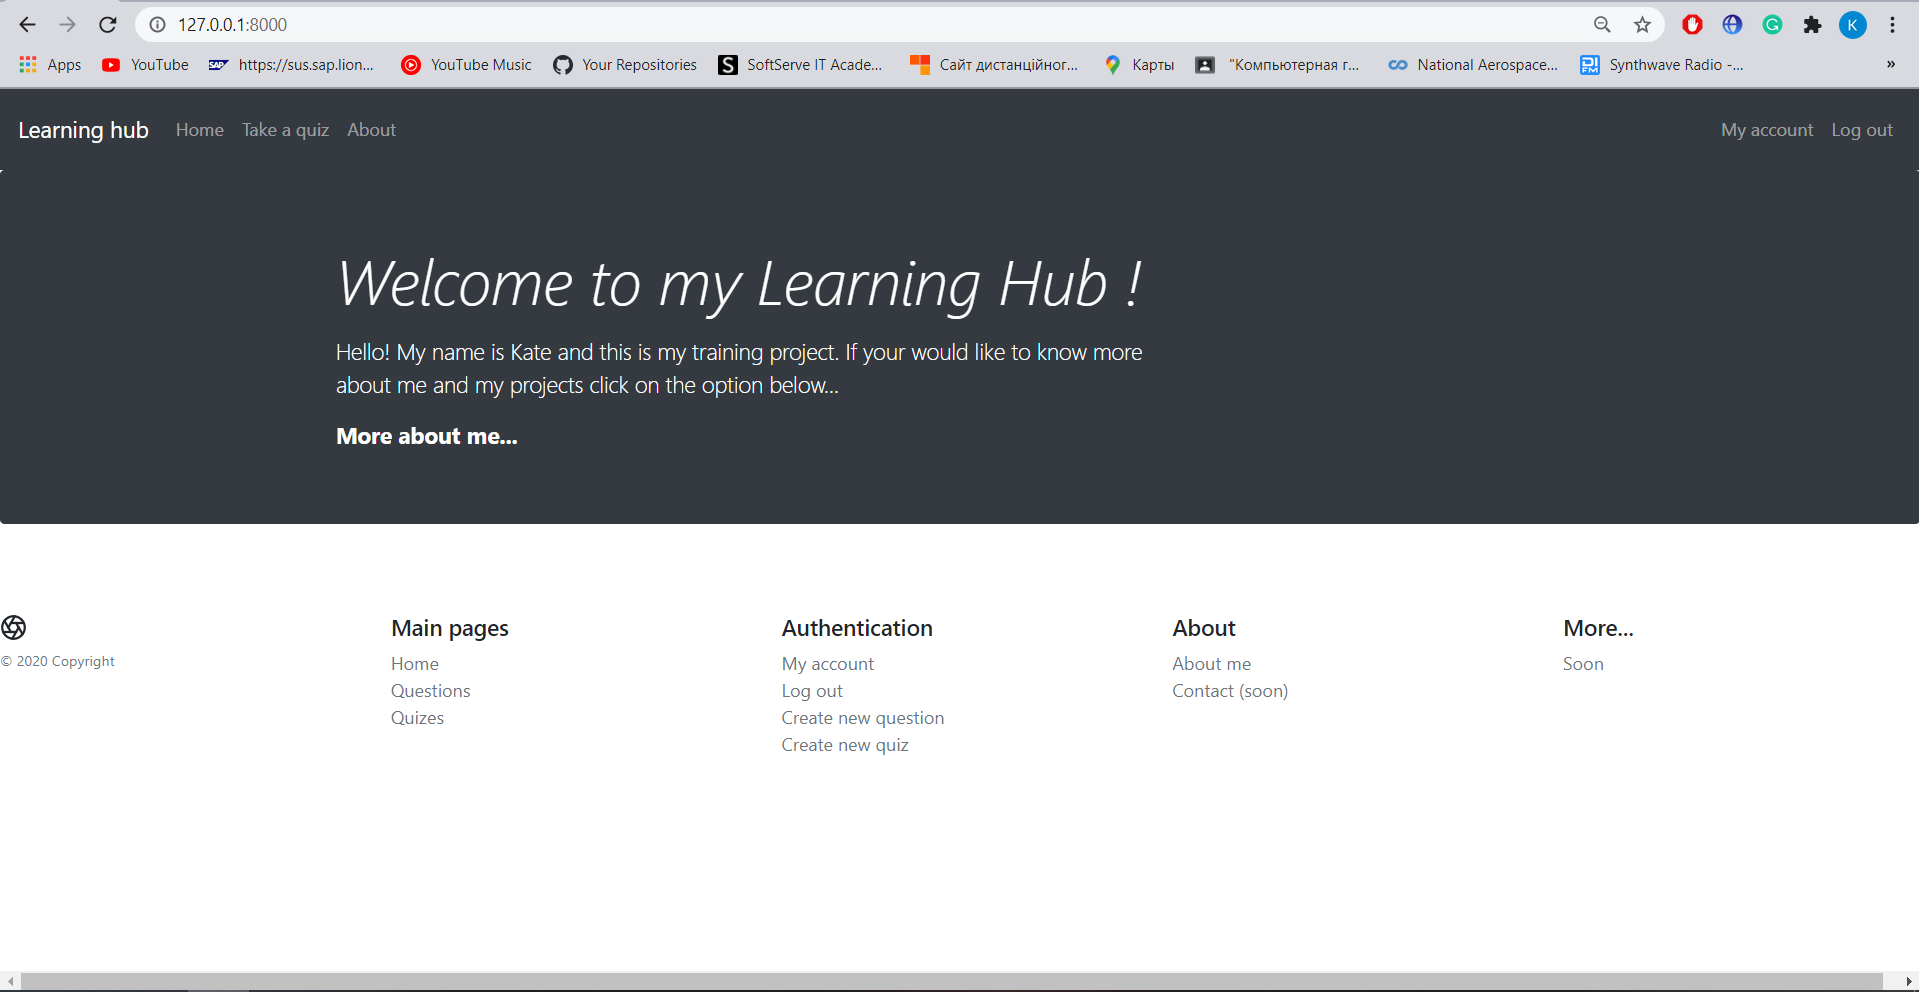
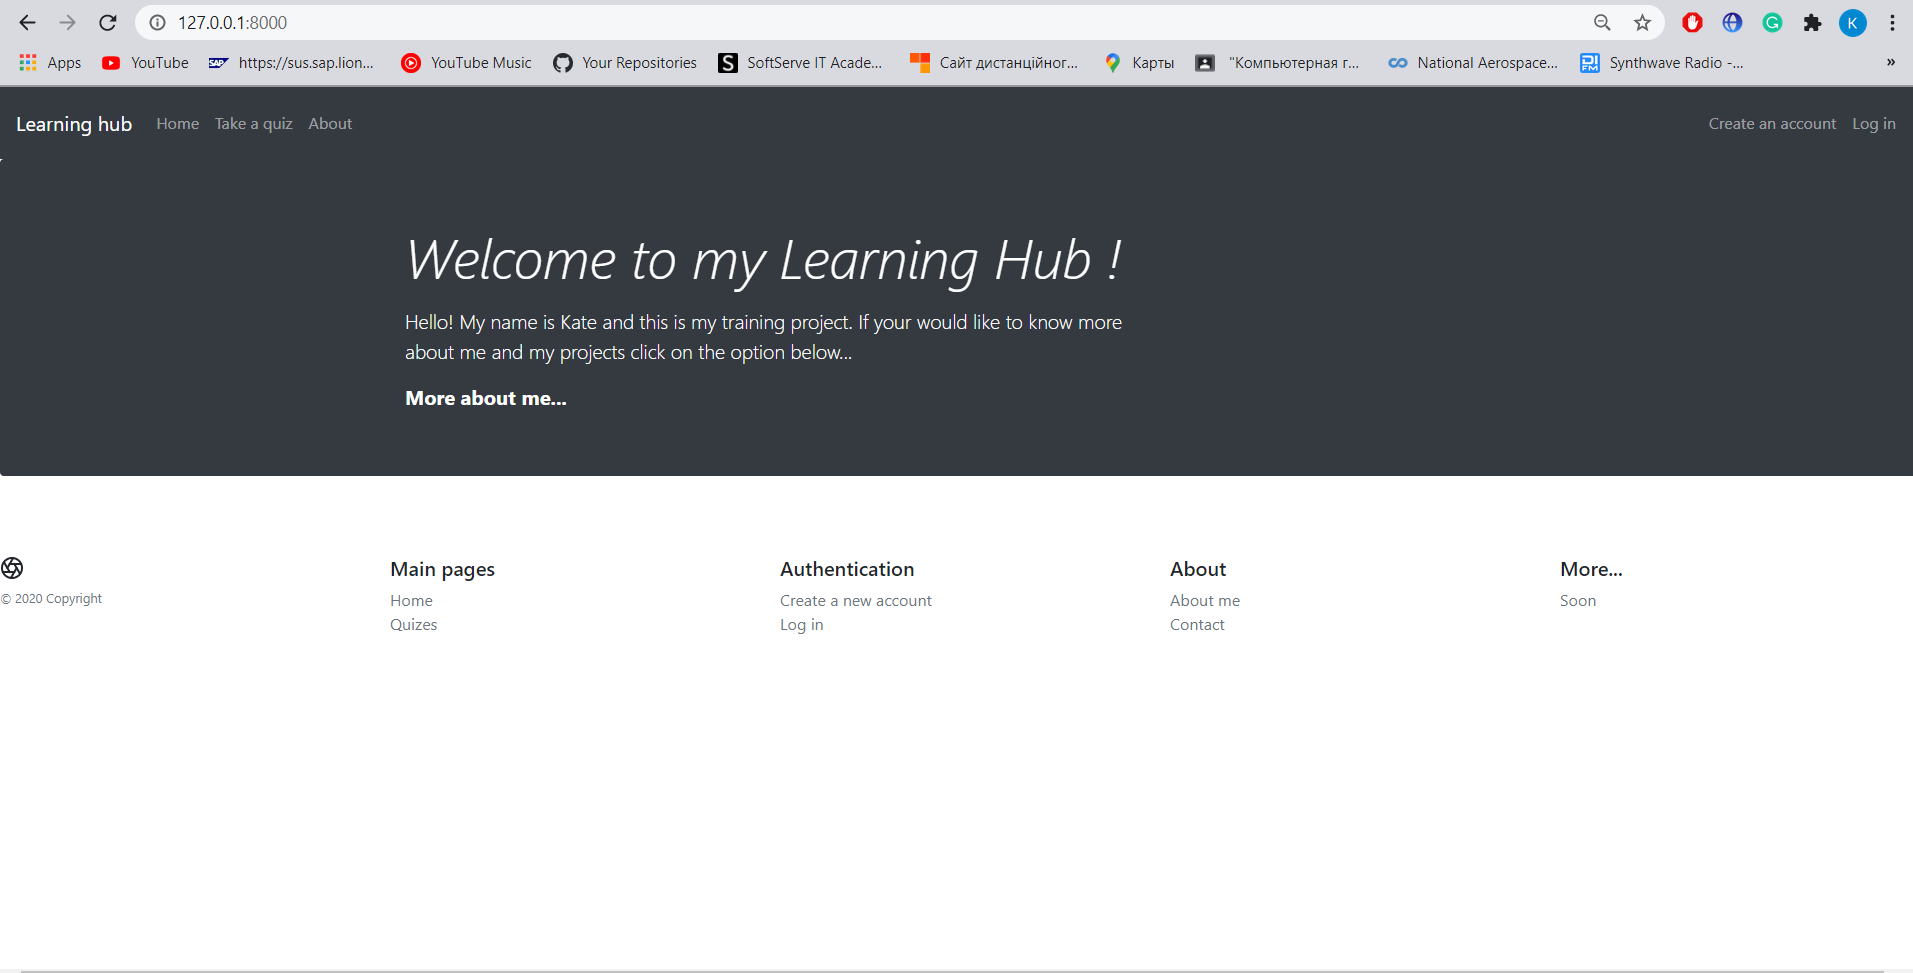
New app screenshots were added, some changes in templates were applied

diff --git a/learning_hub/templates/base.html b/learning_hub/templates/base.html
@@ -63,8 +63,7 @@
           <h5> Main pages</h5>
           <ul class="list-unstyled text-small">
             <li><a class="text-muted" href="/">Home</a></li>
-            <li><a class="text-muted" href="">Questions</a></li>
-            <li><a class="text-muted" href="#">Quizes</a></li>
+            <li><a class="text-muted" href="/all_topics">Quizes</a></li>
           </ul>
         </div>
         <div class="col-6 col-md">
@@ -73,10 +72,10 @@
             {% if user.is_authenticated %}
             <li><a class="text-muted" href="/my_account">My account</a></li>
             <li><a class="text-muted" href="/log_out">Log out</a> </li>
-            <li><a class="text-muted" href="/create_question">Create new question</a> </li>
-            <li><a class="text-muted" href="/create_quiz">Create new quiz</a> </li>
+            <li><a class="text-muted" href="/create_question">Create a new question</a> </li>
+            <li><a class="text-muted" href="/create_quiz">Create a new quiz</a> </li>
             {% else %}
-            <li><a class="text-muted" href="/create_account">Create new account</a></li>
+            <li><a class="text-muted" href="/create_account">Create a new account</a></li>
             <li><a class="text-muted" href="/log_in">Log in</a></li>
             {% endif %}
           </ul>

diff --git a/learning_hub/templates/c_quiz.html b/learning_hub/templates/c_quiz.html
@@ -1,6 +1,7 @@
 {% extends 'base.html' %}
 {% load static %}
 
+{% load crispy_forms_tags %}
 {% block title %} Quiz Creation {% endblock %}
 
 {% block content %}
@@ -13,8 +14,9 @@
 <form method = "POST">
     
      {% csrf_token %}
-     {{form1.as_p}}
-     {{form2.as_p}}
+     {{form1|crispy}}
+     
+     {{form2|crispy}}
       <button type = "submit" class = "btn btn-success">  Submit <i class="fa fa-check"></i> </button>
       </form>
 </div>

diff --git a/learning_hub/forms.py b/learning_hub/forms.py
@@ -100,24 +100,14 @@ for el in list(Topic.objects.all()):
     
 class QuizCreationForm(forms.ModelForm):
     
-    #topic_id_id = forms.ChoiceField(label = 'Select suitable topic', choices = topic_choice)
-    questions = forms.MultipleChoiceField(widget=forms.CheckboxSelectMultiple, choices = tuple(quiz_choice))
+    questions = forms.MultipleChoiceField( choices = tuple(quiz_choice), help_text = 'Hold the "Ctrl" key to select more than 1 option')
     quiz_name = forms.CharField(widget = forms.TextInput)
-    #topic_id_id = forms.ChoiceField(label = 'Select suitable topic', choices = topic_choice)
     
     class Meta:
         model = Quiz
         fields = ['questions', 'quiz_name']
         fields_required = '__all__'
-    '''           
-    def clean(self):
-        cl_data = super(QuizCreationForm, self).clean()
-        topic_id = self.cl_data['topic_id_id']
-        if not topic_id:
-            raise forms.ValidationError('Select topic')
-        return cl_data
-    '''
-    
+
     
         
 
@@ -142,55 +132,4 @@ class TopicCreationForm(forms.ModelForm):
 
 
 class TopicOrderForm(forms.Form):
-    topic_id = forms.ChoiceField(label = 'Select suitable topic name ', widget=forms.RadioSelect, choices = topic_choice, required = True)
-'''
-topic_choice = list()
-for el in list(Topic.objects.all()):
-    topic_choice.append(tuple([el.id, el.topic_name]))
-
-
-
-'''    
-
-'''   
-
-
-class QuestionForm(forms.ModelForm):
-    
-    
-    class Meta:
-        model = Questions
-        fields = '__all__'
-        fields_required = '__all__'
-         
-        help_texts = {
-            'email': 'Must contain only letters.', 
-            'username': 'Must contain at least 6 including only letters, numbers or underscore. ',
-            'password': 'Must contain at least 6 symbols including at least 1 letter and 1 number.',
-        }
-        
-        widgets = {
-            'question':forms.Textarea(attrs = { 'class' :'form-control','style': 'font-size: x-large', 'rows' : 3, 'cols' : 10}),
-            'option1': forms.TextInput(attrs={'class' :'form-control','style': 'font-size: x-large'}),
-            'option2': forms.TextInput(attrs={'class' :'form-control','style': 'font-size: x-large'}),
-            'option3': forms.TextInput(attrs={'class' :'form-control','style': 'font-size: x-large'}),
-            'option4': forms.TextInput(attrs={'class' :'form-control','style': 'font-size: x-large'}),
-            'answer': forms.TextInput(attrs={'class' :'form-control','style': 'font-size: x-large'})
-        }
-
-    def __init__(self, *args, **kwargs):
-        super(QuestionForm, self).__init__(*args, **kwargs)
-        
-        
-    def clean(self):
-        cl_data = super(QuestionForm, self).clean()
-        count = 0
-        if cl_data['answer'] in [*cl_data.values()]:
-            count += 1
-        if count < 2:
-            raise forms.ValidationError('Answer must match one of the options. Check your input.')
-'''
-
-    
-        
-    
+    topic_id = forms.ChoiceField(label = 'Select suitable topic name ', choices = topic_choice, required = True)
